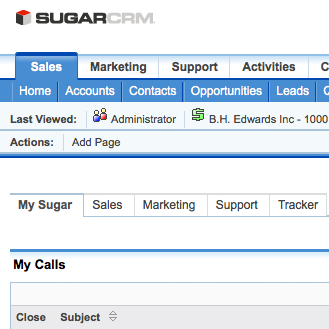
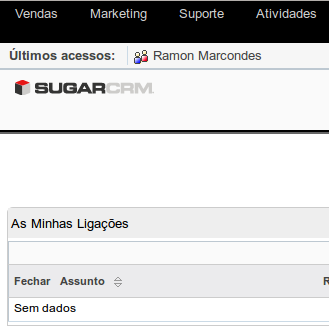
corrigidos menus de informação desaparecendo da página do usuário

diff --git a/css/style.css b/css/style.css
@@ -721,7 +721,7 @@ div.moduleTitle
     margin-top:3px;
     padding:10px 6px 12px 10px;
     padding:20px 16px 22px 30px;
-    width: 100%;
+    /*width: 100%;*/
 }
 .view tr td table, 
 .view tr td table tr td
@@ -3090,7 +3090,6 @@ ul.subpanelTablist li a,
 /* colors */
 body
 {
-	color: #ccc;
 	background-color: #ffffff;
 }
 h1, h2, h3
@@ -3141,7 +3140,7 @@ button[disabled], input[type=submit][disabled], input[type=reset][disabled], inp
 }
 input,select 
 {
-	border-color: #94c1e8;
+	border-color: #CCC;
 	background-color: #ffffff;
 }
 

diff --git a/js/style.js b/js/style.js
@@ -62,7 +62,7 @@ $(document).ready(function(){
             //alert("closest subModuleList");        
         return;
         }
-        $(".selected").hide(); 
+        $("#subModuleList .selected").hide(); 
         $("ul.cssmenu").hide();            
     });    
 });
